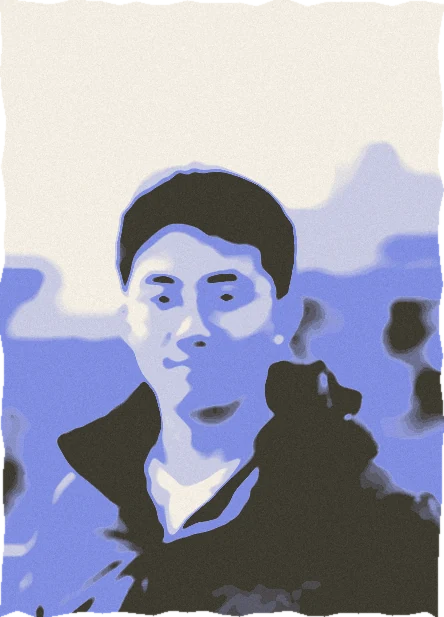
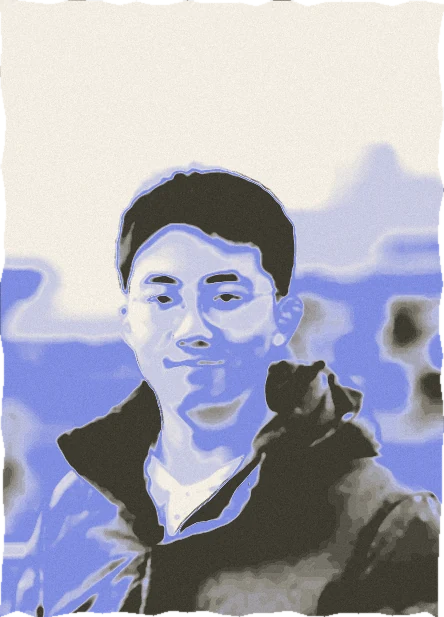
Swap plate order and add ink line work to the portrait

diff --git a/index.html b/index.html
@@ -56,8 +56,8 @@
     <section id="about" class="sec">
       <h2 class="sec-label"><span class="mark sq" aria-hidden="true"></span>01&nbsp;·&nbsp;about</h2>
       <figure class="plate">
-        <img src="assets/img/plate-sun.webp" alt="Riso print of a cobalt sun with a halftone fade and orbiting dots on aged paper" width="900" height="1500">
-        <figcaption>plate&nbsp;1&nbsp;—&nbsp;a study in cobalt</figcaption>
+        <img src="assets/img/plate-drift.webp" alt="A small cobalt disc with words drifting down an aged paper plate" width="900" height="1500">
+        <figcaption>plate&nbsp;1&nbsp;—&nbsp;drift</figcaption>
       </figure>
       <p>I am a Member of Technical Staff at <a href="https://www.kimi.com">Kimi</a> (Moonshot AI), working on agentic coding post-training. Previously, I was a research engineer at <a href="https://www.zhipuai.cn">Zhipu.AI</a>, where I worked on improving the performance of VLMs on video, alignment, reasoning, etc. My research interests lie in visual understanding and generation, language modeling and world modeling.</p>
       <p>I received my Master’s degree from the School of Computer Science at Peking University, at <a href="https://ci.idm.pku.edu.cn/">CILab</a> &amp; <a href="http://aiic.pku.edu.cn/">AIIC</a>, advised by Prof. Boxin Shi and Mr. Ming Lei. I received my Bachelor of Engineering degree in Automation and Bachelor of Arts degree in Economics from Tsinghua University in 2021. My academic research topic involves 3D modeling with neural implicit representations, computational photography, and image quality enhancement.</p>
@@ -300,8 +300,8 @@
     </section>
 
     <figure class="endpaper">
-      <img src="assets/img/plate-drift.webp" alt="A small cobalt disc with words drifting down an aged paper plate" width="900" height="1500">
-      <figcaption>plate&nbsp;2&nbsp;—&nbsp;drift</figcaption>
+      <img src="assets/img/plate-sun.webp" alt="Riso print of a cobalt sun with a halftone fade and orbiting dots on aged paper" width="900" height="1500">
+      <figcaption>plate&nbsp;2&nbsp;—&nbsp;a study in cobalt</figcaption>
     </figure>
   </main>
 

diff --git a/tools/gen_artwork.py b/tools/gen_artwork.py
@@ -97,9 +97,9 @@ def plate_sun():
 
     f_l = ImageFont.truetype(MONO, 21)
     f_s = ImageFont.truetype(MONO, 17)
-    tracked(d, (66, 72), "PLATE 1 · A STUDY IN COBALT", f_l, INK + (205,), 6)
+    tracked(d, (66, 72), "PLATE 2 · A STUDY IN COBALT", f_l, INK + (205,), 6)
     tracked(d, (66, H - 112), "YEAN CHENG — NOTES ON INTELLIGENCE", f_s, INK + (150,), 5)
-    tracked(d, (W - 150, H - 112), "№ 01", f_s, INK + (150,), 4)
+    tracked(d, (W - 150, H - 112), "№ 02", f_s, INK + (150,), 4)
 
     im = im.filter(ImageFilter.GaussianBlur(0.35))
     im = add_grain(im.convert("RGB"), sigma=2.6, seed=9)
@@ -128,9 +128,9 @@ def plate_drift():
 
     f_l = ImageFont.truetype(MONO, 21)
     f_s = ImageFont.truetype(MONO, 17)
-    tracked(d, (66, 72), "PLATE 2 · DRIFT", f_l, INK + (205,), 6)
+    tracked(d, (66, 72), "PLATE 1 · DRIFT", f_l, INK + (205,), 6)
     tracked(d, (66, H - 112), "AFTER A LONG TRAINING RUN", f_s, INK + (150,), 5)
-    tracked(d, (W - 150, H - 112), "№ 02", f_s, INK + (150,), 4)
+    tracked(d, (W - 150, H - 112), "№ 01", f_s, INK + (150,), 4)
 
     im = im.filter(ImageFilter.GaussianBlur(0.35))
     im = add_grain(im.convert("RGB"), sigma=2.6, seed=4)
@@ -172,15 +172,15 @@ def portrait_cobalt():
     lo, hi = np.percentile(px, 2), np.percentile(px, 98)
     px = np.clip((px - lo) / (hi - lo), 0, 1)
 
-    # flatten photographic texture into print-like shapes
+    # flatten photographic texture into print-like shapes, but keep features
     sm = Image.fromarray((px * 255).astype(np.uint8), "L")
-    sm = sm.filter(ImageFilter.MedianFilter(9)).filter(ImageFilter.GaussianBlur(1.2))
+    sm = sm.filter(ImageFilter.MedianFilter(5)).filter(ImageFilter.GaussianBlur(0.9))
     a = np.asarray(sm, dtype=np.float32) / 255.0
 
-    # four flat bands of ink
-    band_ink = np.clip((0.25 - a) / 0.05, 0, 1) * 0.88          # deep shadow → black ink
-    band_deep = np.clip((0.52 - a) / 0.06, 0, 1) * np.clip((a - 0.20) / 0.06, 0, 1) * 0.55
-    band_light = np.clip((0.76 - a) / 0.06, 0, 1) * np.clip((a - 0.46) / 0.06, 0, 1) * 0.20
+    # soft-graded bands of ink
+    band_ink = np.clip((0.25 - a) / 0.09, 0, 1) * 0.88          # deep shadow → black ink
+    band_deep = np.clip((0.52 - a) / 0.10, 0, 1) * np.clip((a - 0.20) / 0.10, 0, 1) * 0.55
+    band_light = np.clip((0.76 - a) / 0.10, 0, 1) * np.clip((a - 0.46) / 0.10, 0, 1) * 0.20
     cobalt_amt = np.clip(band_deep + band_light, 0, 1)
 
     paper_arr = np.array(PAPER, dtype=np.float32)
@@ -189,6 +189,17 @@ def portrait_cobalt():
     out = paper_arr[None, None, :] * (1 - np.clip(cobalt_amt + band_ink, 0, 1)[..., None])
     out = out + cobalt_arr[None, None, :] * cobalt_amt[..., None]
     out = out + ink_arr[None, None, :] * band_ink[..., None]
+
+    # ink line pass: outline eyes / glasses / jaw so the face reads clearly
+    ed = sm.filter(ImageFilter.FIND_EDGES)
+    ea = np.asarray(ed, dtype=np.float32) / 255.0
+    ea = np.clip((ea - 0.14) / 0.18, 0, 1) ** 1.3 * 0.6
+    # keep the line work on the subject, fade it out in the background
+    yy, xx = np.mgrid[0:h, 0:w]
+    dist2 = ((xx - 0.5 * w) / (0.55 * w)) ** 2 + ((yy - 0.45 * h) / (0.62 * h)) ** 2
+    ea = ea * np.clip(1.3 - dist2, 0, 1)
+    out = out * (1 - ea[..., None]) + ink_arr[None, None, :] * ea[..., None]
+
     img = Image.fromarray(np.clip(out, 0, 255).astype(np.uint8), "RGB")
 
     img = add_grain(img, sigma=3.2, seed=2).convert("RGBA")
